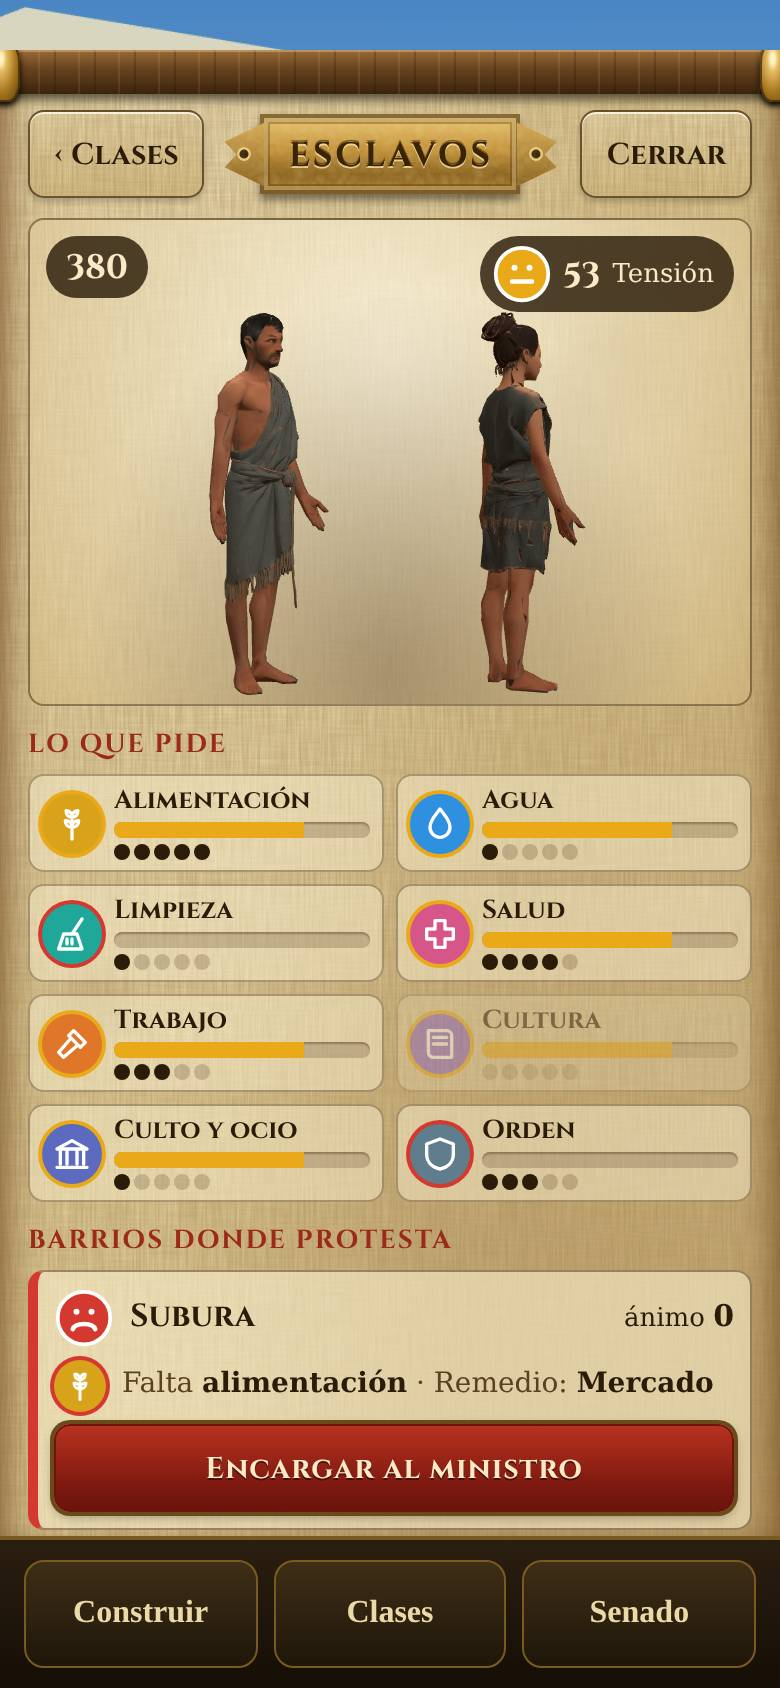
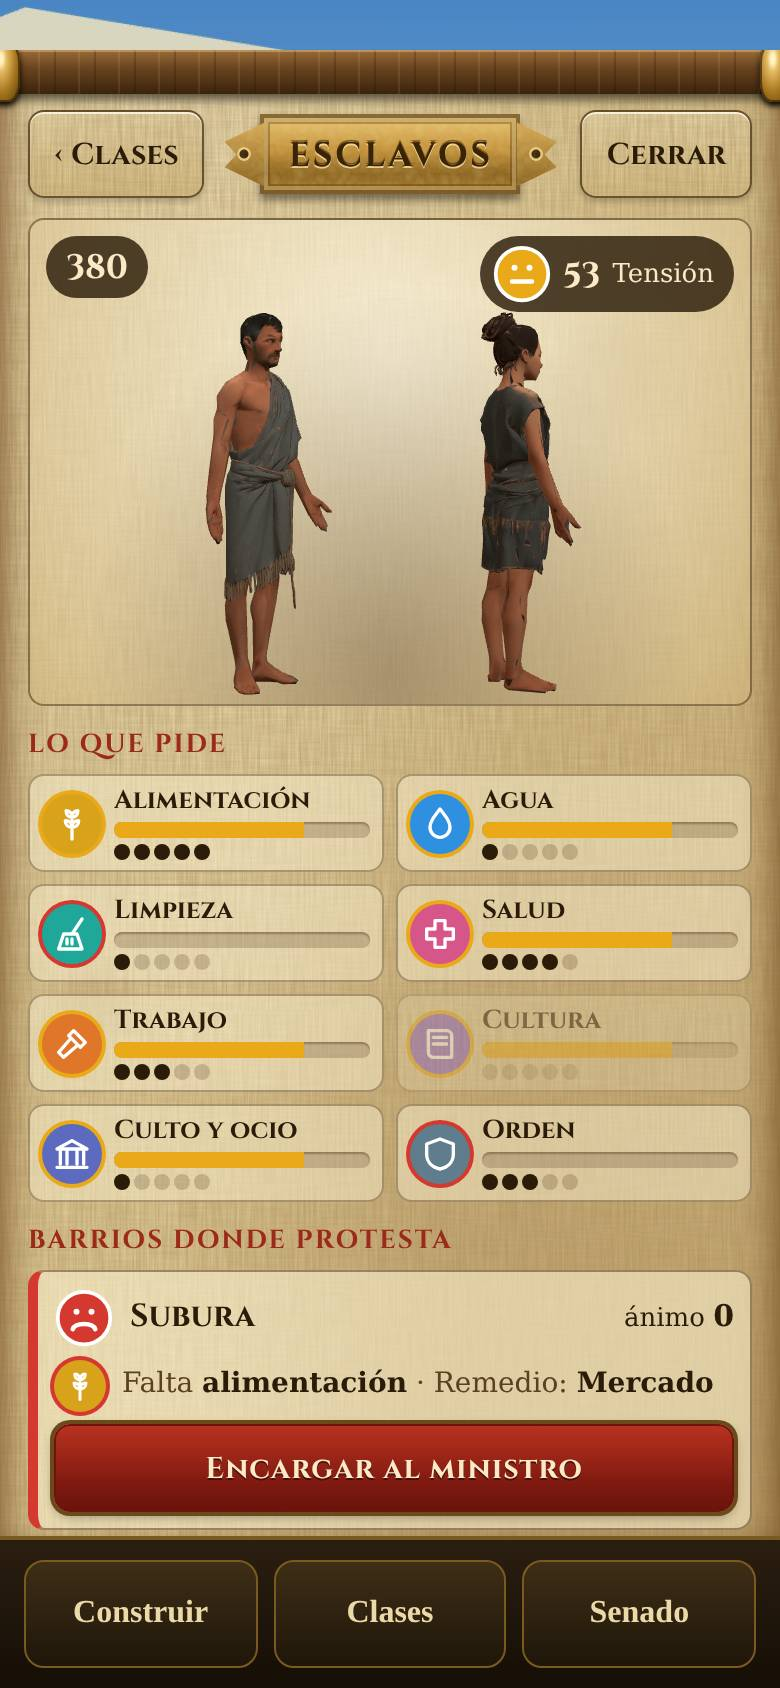
CS3: arreglos del revisor y parte (menú de clases y 19 personajes, sin enganchar)
Claude-Session: https://claude.ai/code/session_01QiKC3864S6sKFmMFVCdX7j

diff --git a/js/clases-ui.js b/js/clases-ui.js
@@ -215,25 +215,26 @@ const U = { el: null, cid: null, op: null, vista: 'menu', clase: null, datos: nu
 const RET = {};          // retratos ya hechos (id -> dataURL): se guardan en memoria
 const MODELOS = new Map();   // id -> Promise<Group|null>
 let INDICE = null;
-const R = { ren: null, scene: null, cam: null, listo: null, raf: 0, t: 0, piv: [], malo: false, haciendo: false };
+const R = { ren: null, scene: null, cam: null, listo: null, raf: 0, t: 0, piv: [], malo: false, haciendo: false, gen: 0 };
 
 const idDe = (c, sexo) => {
   const nom = sexo === 'm' ? c.m : c.h;
   if (INDICE && !INDICE[nom]) {
-    const k = Object.keys(INDICE).find(i => INDICE[i] && INDICE[i].clase === c.id && (sexo === 'm' ? /^(m|f)/i : /^h|^v|^var/i).test(String(INDICE[i].sexo || '')));
+    const k = Object.keys(INDICE).find(i => INDICE[i] && INDICE[i].clase === c.id && (sexo === 'm' ? /^f/i : /^m/i).test(String(INDICE[i].sexo || '')));
     if (k) return k;
   }
   return nom;
 };
 async function cargarIndice() {
   if (INDICE) return INDICE;
-  try { const r = await fetch(BASE + 'personajes.json'); INDICE = r.ok ? await r.json() : {}; } catch (e) { INDICE = {}; }
-  return INDICE;
+  let ind = null; try { const r = await fetch(BASE + 'personajes.json'); if (r.ok) ind = await r.json(); } catch (e) { ind = null; }
+  if (ind) INDICE = ind;   // si falla no se guarda: se reintenta
+  return ind || {};
 }
 function modelo(id) {
   if (!MODELOS.has(id)) MODELOS.set(id, (async () => {
-    await cargarIndice(); const f = INDICE[id] || {};   // sin índice, se prueba id.glb
-    try { return await leerGLB(BASE + (f.archivo || id + '.glb')); } catch (e) { console.warn('Personaje ' + id + ': no se pudo leer', e); return null; }
+    await cargarIndice(); const f = (INDICE || {})[id] || {};   // sin índice, se prueba id.glb
+    try { return await leerGLB(BASE + (f.archivo || id + '.glb')); } catch (e) { console.warn('Personaje ' + id + ': no se pudo leer', e); MODELOS.delete(id); return null; }
   })());
   return MODELOS.get(id);
 }
@@ -261,18 +262,20 @@ async function hacerRetratos() {
   try { await retratos(); } finally { R.haciendo = false; }
 }
 async function retratos() {
-  await cargarIndice();
+  const gen = R.gen;   // si cambia (abrir, cerrar, entrar en la ficha), este trabajo ya no vale y sale sin tocar nada
+  await cargarIndice(); if (gen !== R.gen || !U.el) return;
   const ren = renderer(); if (!ren) return;
   for (const c of CLASES) for (const sx of ['h', 'm']) {
-    if (U.vista === 'ficha' || !U.el) return;   // la ficha usa el mismo renderer: los retratos que falten se hacen al volver
+    if (gen !== R.gen || U.vista === 'ficha' || !U.el || R.ren !== ren) return;   // la ficha usa el mismo renderer: los retratos que falten se hacen al volver
     const id = idDe(c, sx); if (RET[id]) continue;
-    const m = await modelo(id); if (!m || !R.ren) continue;
+    const m = await modelo(id); if (gen !== R.gen || R.ren !== ren || !U.el) return; if (!m) continue;
     try {
       ren.setSize(176, 232, false); R.cam.aspect = 176 / 232; R.cam.updateProjectionMatrix(); R.cam.position.set(0, 1.35, 2.5); R.cam.lookAt(0, 1.22, 0);
-      m.position.set(0, 0, 0); m.rotation.y = sx === 'm' ? -0.3 : 0.3; R.scene.add(m); ren.render(R.scene, R.cam); RET[id] = ren.domElement.toDataURL('image/png'); R.scene.remove(m);
+      m.position.set(0, 0, 0); m.rotation.y = sx === 'm' ? -0.3 : 0.3; R.scene.add(m); ren.render(R.scene, R.cam);
+      if (!ren.getContext().isContextLost()) RET[id] = ren.domElement.toDataURL('image/png');
+      R.scene.remove(m);
     } catch (e) { console.warn('Retrato ' + id, e); }
-    if (U.el) U.el.querySelectorAll('img[data-ret="' + id + '"]').forEach(im => { if (RET[id]) im.src = RET[id]; });
-    if (!U.el) return;
+    if (RET[id]) U.el.querySelectorAll('img[data-ret="' + id + '"]').forEach(im => { im.src = RET[id]; });
   }
 }
 
@@ -360,7 +363,7 @@ function clic(e) {
   const t = e.target.closest('[data-acc],[data-cl],[data-enc]'); if (!t || !U.el) return;
   if (t.dataset.acc === 'cerrar') return cerrar();
   if (t.dataset.acc === 'atras') { U.vista = 'menu'; pinta(); hacerRetratos().catch(() => {}); return; }
-  if (t.dataset.cl) { U.vista = 'ficha'; U.clase = t.dataset.cl; U.msg = {}; pinta(); const cu = U.el.querySelector('.cl-cuerpo'); if (cu) cu.scrollTop = 0; return; }
+  if (t.dataset.cl) { R.gen++; R.haciendo = false; U.vista = 'ficha'; U.clase = t.dataset.cl; U.msg = {}; pinta(); const cu = U.el.querySelector('.cl-cuerpo'); if (cu) cu.scrollTop = 0; return; }
   if (t.dataset.enc !== undefined) {
     const c = CLASES.find(k => k.id === U.clase), x = U.datos && U.datos.porBarrio.find(q => String(q.b.i) === t.dataset.enc), rem = x && x._rem, op = U.op || {}, G = op.juego || root.Game;
     if (!rem) { U.msg[t.dataset.enc] = { ok: false, t: 'Este barrio no tiene remedio claro todavía.' }; return pinta(); }
@@ -374,13 +377,13 @@ function clic(e) {
 export function abrir(cid, op) {
   if (typeof document === 'undefined') return;
   meter(); cerrar();
-  if (op && op.base) BASE = op.base; U.cid = cid || (root.UI && root.UI.city) || null; U.op = op || null; U.vista = 'menu'; U.clase = null; U.msg = {};
+  R.gen++; if (op && op.base) BASE = op.base; U.cid = cid || (root.UI && root.UI.city) || null; U.op = op || null; U.vista = 'menu'; U.clase = null; U.msg = {};
   U.el = document.createElement('div'); U.el.className = 'cl-fondo'; U.el.id = 'cl-fondo'; U.el.addEventListener('click', clic); document.body.appendChild(U.el);
   pinta();
   hacerRetratos().then(() => { if (U.el && U.vista === 'ficha') { const c = CLASES.find(k => k.id === U.clase); if (c && !R.piv.length) montar3D(c); } }).catch(e => console.warn('Retratos', e));
 }
 export function cerrar() {
-  paraBucle(); if (U.el) { U.el.remove(); U.el = null; }
+  R.gen++; R.haciendo = false; paraBucle(); if (U.el) { U.el.remove(); U.el = null; }
   liberar();   // un solo renderer: se libera al cerrar (los retratos y los modelos quedan en memoria)
 }
 export const CLASES_UI = { abrir, cerrar, calcularClases, PATRICIOS_DE_CIU, PESOS_PAT };

diff --git a/gobierno/partes/2026-11-24-CS3.md b/gobierno/partes/2026-11-24-CS3.md
@@ -1,0 +1,20 @@
+# Parte · CS3 Clases sociales: el menú rehecho y sus personajes · 24/11/2026
+**Resultado**: hecho, sin enganchar (archivos propios + contrato para CDe4). Sirve a L3 de `lista.json` y al órgano Cerebro de `OBJETIVOS.md` («descuidar a una clase tiene consecuencias que se ven»).
+**Qué cambia para el jugador** (tras CDe4): un menú «Clases sociales» con cuatro tarjetas (Plebe, Ciudadanos, Patricios, Esclavos), cada una con su hombre y su mujer de Meshy, la gente que hay y una cara verde/ocre/roja de ánimo. Al tocar una: los dos personajes en 3D girando, ánimo grande, las 8 necesidades con icono, barra de lo cubierto y puntos de lo que pesa para esa clase, y los barrios donde protesta con su remedio y «Encargar al ministro». Capturas: `capturas-tarea/CS3-menu.jpg`, `CS3-plebe.jpg`, `CS3-esclavos.jpg`, `CS3-patricios.jpg`, hoja de los 19: `CS3-personajes.jpg`.
+**Archivos**: `js/clases-ui.js` (nuevo), `assets/personajes/` (19 .glb + `personajes.json` + `LICENSE.txt`), `tools/aligerar_personajes.mjs`, banco `gobierno/maquetas/clases/` (`index.html`, `captura.mjs`).
+**Arte**: 19 personajes (MS3: 6; MS4: 13; publicano fuera por los pantalones). 239–244 KB los texturizados (≈9 300–10 500 triángulos, textura 512 JPEG, KHR_mesh_quantization, sin Draco ni meshopt); pontífice y tribuno en yeso, 162–165 KB (≈14 000 tri). Total **4,4 MB** → descarga 49,8 + 4,4 = **54,2 de 56 MB**. Mayor: tribuno, 13 996 triángulos (son figuras de menú, una pareja a la vez; no cuentan para `triangulosPorUnidad`). Fallos: mancha rojiza en la nariz de la matrona; esclavo y esclava con la cara algo oscura. Licencia CC BY-SA 3.0 con Meshy como herramienta, como los soldados.
+**Jueces**: `juez-area cerebro` **NO APTO 1 fallo ajeno**: «Construir un edificio» (la captura `capturas-area/cerebro/04-construir.jpg` dice «Mal sitio: Ya hay un edificio»: el juez elige un solar ya ocupado). CS3 solo añade archivos nuevos que `index.html` aún no carga; el fallo apareció tras unir CE5, CE10, MN3 y MN4a. `arte.mjs` APTO (no cuenta aún `assets/personajes/`). Revisor: 2 carreras de los retratos y 4 menores, arregladas en una vuelta; banco de pruebas en verde, sin errores de consola.
+**Cuentas**: presupuesto 1,7 M · gastado **2,75 M (+62 %)** · opus 0,67 · sonnet 2,08. Se fue en el constructor del menú (1,57 M: escribió un lector .glb propio porque no hay GLTFLoader en `js/vendor/`, y pasó el juez de área tres veces, una doble por error). Ahorro: decirle que no hay GLTFLoader y que pase el juez una sola vez al final.
+**Elegido sin preguntar**: publicano fuera; pontífice y tribuno en yeso; **patricios = 10 % de los ciudadanos** con pesos propios (cultura, culto y orden 0,2), licencia de juego comentada en el archivo; ánimo de la tarjeta = el de la ciudad (`G.animoClases`), y la lista de barrios usa el ánimo por barrio de `necesidades.js` (pueden no coincidir: una clase en «Tensión» con un barrio a 0).
+**Contrato de enganche (CDe4)**, también en la cabecera de `clases-ui.js`:
+1. `index.html`: `<script type="module" src="js/clases-ui.js"></script>`.
+2. `ui.js`: botón «Clases» que llame a `CLASES_UI.abrir(ciudadId)` (sin argumento usa `UI.city`); quita o redirige el menú de clases viejo.
+3. `sw.js`: `js/clases-ui.js`, `assets/personajes/personajes.json`, `LICENSE.txt` y los 19 `.glb` (o solo los 8 del menú: plebeyo, plebeya, ecuestre, dama, patricio, matrona, esclavo, esclava); subir la versión de la caché.
+4. `registro.js`: una ficha por personaje usado: arte Meshy (modelo del usuario), CC BY-SA 3.0, dictamen de `partes/2026-11-24-MS3.md` y `MS4.md`.
+5. `gobierno/arte.mjs` (común): contar `assets/personajes/`. Sin los .glb el menú funciona con siluetas.
+**Pases**:
+- → vigía / común: `gobierno/areas.json`: dar `js/clases-ui.js` a cerebro y `assets/personajes/` a arte (hoy «sin dueño»).
+- → quien unió CE5/CE10/MN3/MN4a: el juez de cerebro falla en «Construir un edificio» por solar ocupado.
+**Queda pendiente**: texturizar pontífice y tribuno (20 créditos al subir el tope de la clave de Meshy); retocar la nariz de la matrona; menú de magistrados con los otros 11 personajes (cuando lo pida un área).
+**Ideas**: Idea: usar los 19 personajes como gente de la ciudad de cerca o en el Senado.
+**Decide el usuario**: **Patricios**: (A) 10 % de los ciudadanos, con pesos propios [recomendado, hecho]; (B) clase propia en el juego (toca `game.js` y el guardado). Por qué: A no toca los comunes antes de la 1.0.
